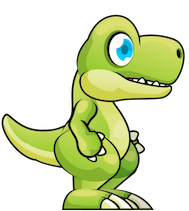
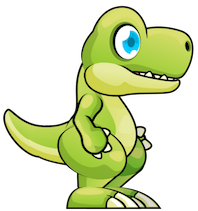
new Egg

Changed region(s): [[0.0, 0.0284, 0.9788, 1.0]]

diff --git a/main.js b/main.js
@@ -2,6 +2,7 @@
 const canv=document.getElementById("canvas"); 
 const $score=document.getElementById("score");
 const $overlay=document.getElementById("game-overlay"); 
+const $h1=document.querySelector("h1");
 const ctx=canv.getContext('2d');
 const W=ctx.canvas.width; 
 const H=ctx.canvas.height; 
@@ -113,17 +114,13 @@ function animLoop(){
   }
 
   if(gameOver){
-    clearInterval(intervalId); 
-    cancelAnimationFrame(raf);
-    $overlay.style.backgroundImage="url('images/dead.png')";
-    $overlay.style.display="block";
-    canv.style.display="none";
+    endGame();
   }
   
 };
 
-let intervalId=setInterval(function(){eggs.push(new Egg())},3000);
-let AttackersId=setInterval(function(){mushs.push(new Mushroom())},4000);
+let intervalId; 
+let attackersId;
 
 function startGame() {
   button.blur()
@@ -134,7 +131,12 @@ function startGame() {
   }
 
   startTime=Date.now(); 
- 
+  intervalId=setInterval(function(){
+    eggs.push(new Egg()); 
+    console.log("Egg created");
+    },3000);
+  
+  attackersId=setInterval(function(){mushs.push(new Mushroom())},4000);
   raf = requestAnimationFrame(animLoop);
 }
 const button=document.getElementById("start"); 
@@ -151,10 +153,24 @@ button.onclick=()=> {
 
 
 function reset() {
+  dino=new Dino();
   gameOver = false;
   mushs=[];
   eggs=[]; 
   score=0; 
+}
+
+function endGame(){
+  clearInterval(intervalId); 
+  clearInterval(attackersId)
+  cancelAnimationFrame(raf);
+  $overlay.style.backgroundImage="url('images/dead.png')";
+  $overlay.style.display="block";
+  $instructions.style.display="block";
+  $h1.innerHTML="Game Over...";
+  button.innerHTML="Start Again";
+  canv.style.display="none";
+
 }
 //the Game loop 
 // 

diff --git a/dino.js b/dino.js
@@ -6,7 +6,7 @@ class Dino {
     dinoImg.onload = () => {
    
       this.img = dinoImg;
-      const dinoRatio = dinoImg.naturalWidth/dinoImg.naturalHeight;
+      const dinoRatio = (dinoImg.naturalWidth/2)/dinoImg.naturalHeight;
       this.w=100;
       this.h=this.w/dinoRatio;
       this.x=W/2;
@@ -14,6 +14,7 @@ class Dino {
       this.y= this.ground;
       this.dx=2;
       this.dy=0;
+      this.sprite=0; 
       this.onGround=true; 
       this.jumpPower=-4;
       this.jumpKey=false; 
@@ -22,14 +23,19 @@ class Dino {
     this.rightKeyPressed=false; 
     this.leftKeyPressed=false; 
   
-    dinoImg.src = "images/dino.png";
+    dinoImg.src = "images/spritesheet.png";
     
 
   }
 
   draw() { 
     if (!this.img) return; // if `this.img` is not loaded yet => don't draw
-    ctx.drawImage(this.img, this.x, this.y, this.w, this.h);
+    if(!this.sprite){
+      ctx.drawImage(this.img,0,0,198,211, this.x, this.y, this.w, this.h);
+    } else {
+      ctx.drawImage(this.img,198,0,198,211, this.x, this.y, this.w, this.h);
+    } 
+    
     // ctx.strokeRect(this.x,this.y,this.w,this.h)
   }
 
@@ -42,7 +48,9 @@ class Dino {
 
   moveRight(){
     if(this.rightKeyPressed){
-      if((this.x+this.dx)<W-this.w) { this.x += this.dx; }
+      if((this.x+this.dx)<W-this.w) { 
+        this.x += this.dx;
+        this.sprite=(this.sprite+1)%2 }
     }
     
 

diff --git a/eggs.js b/eggs.js
@@ -32,7 +32,6 @@ class Egg {
     }
 
   } 
-
   
 }
 
